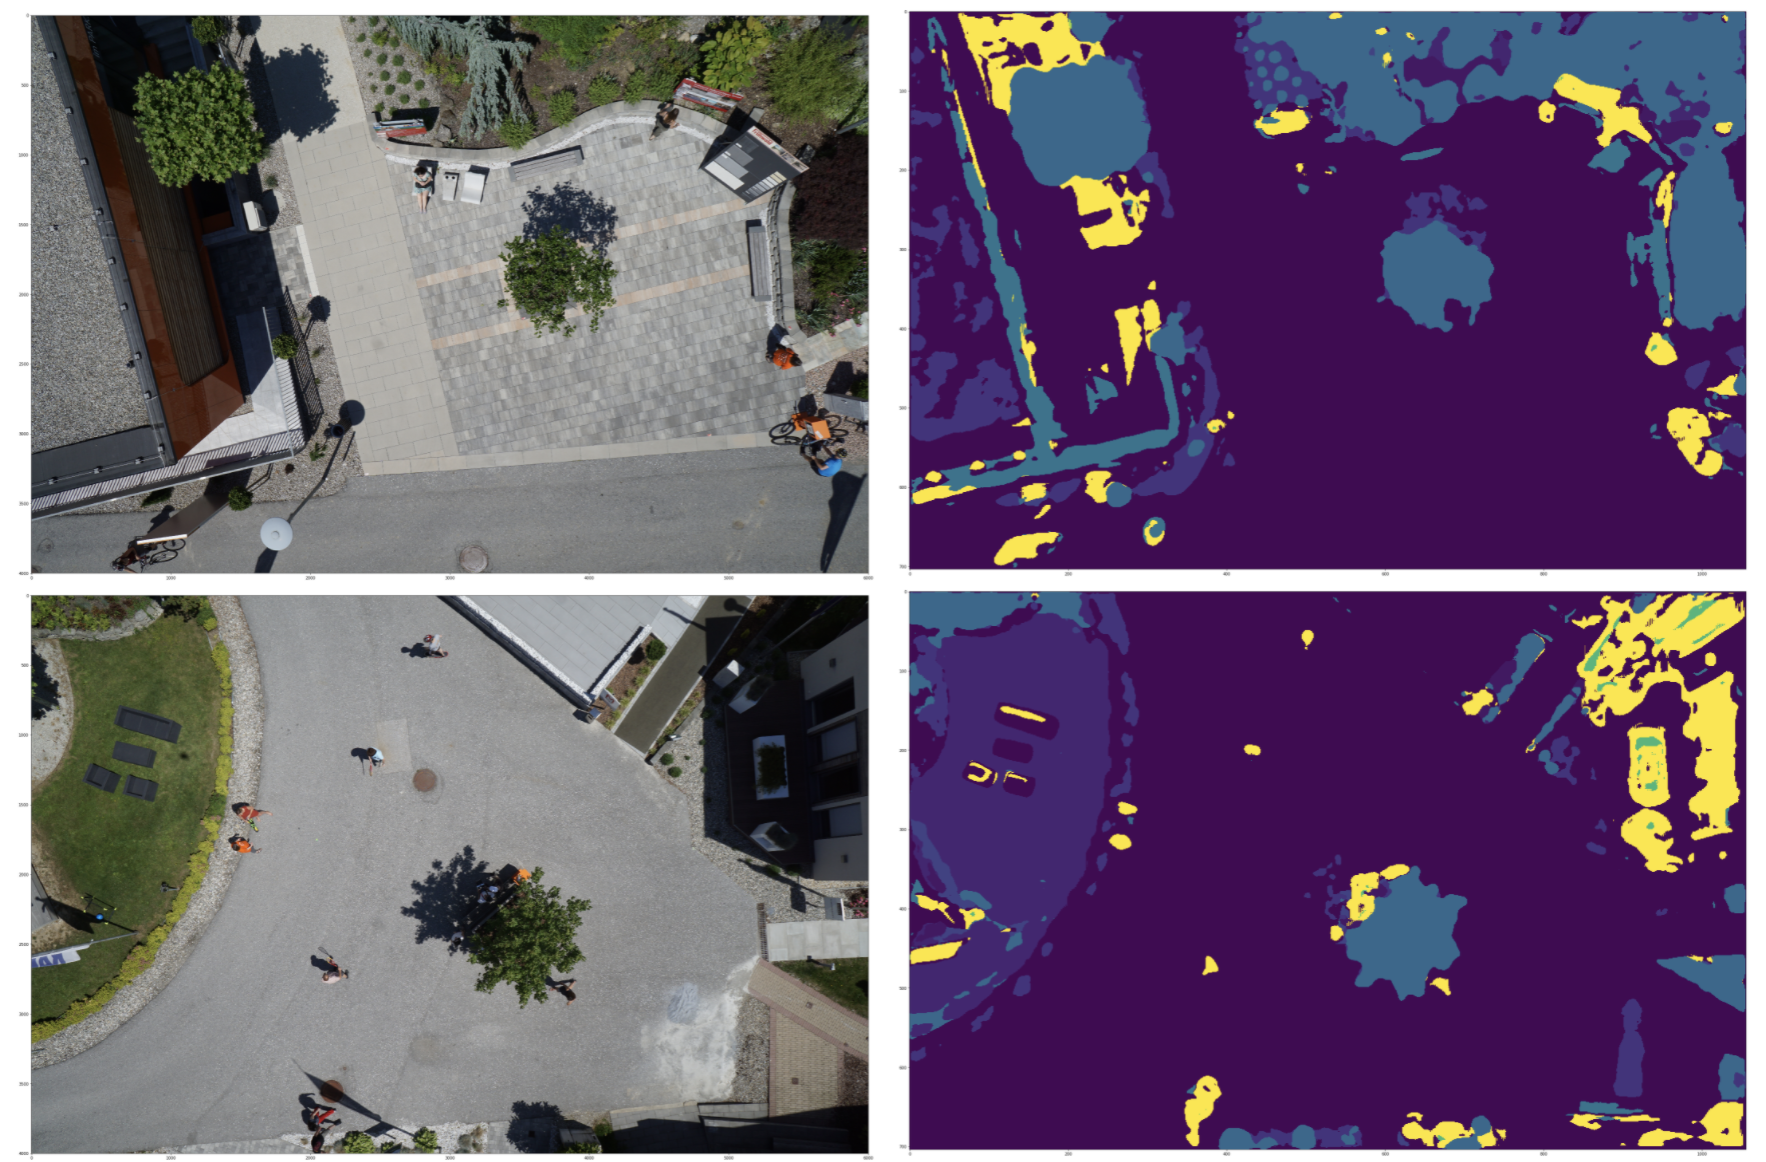
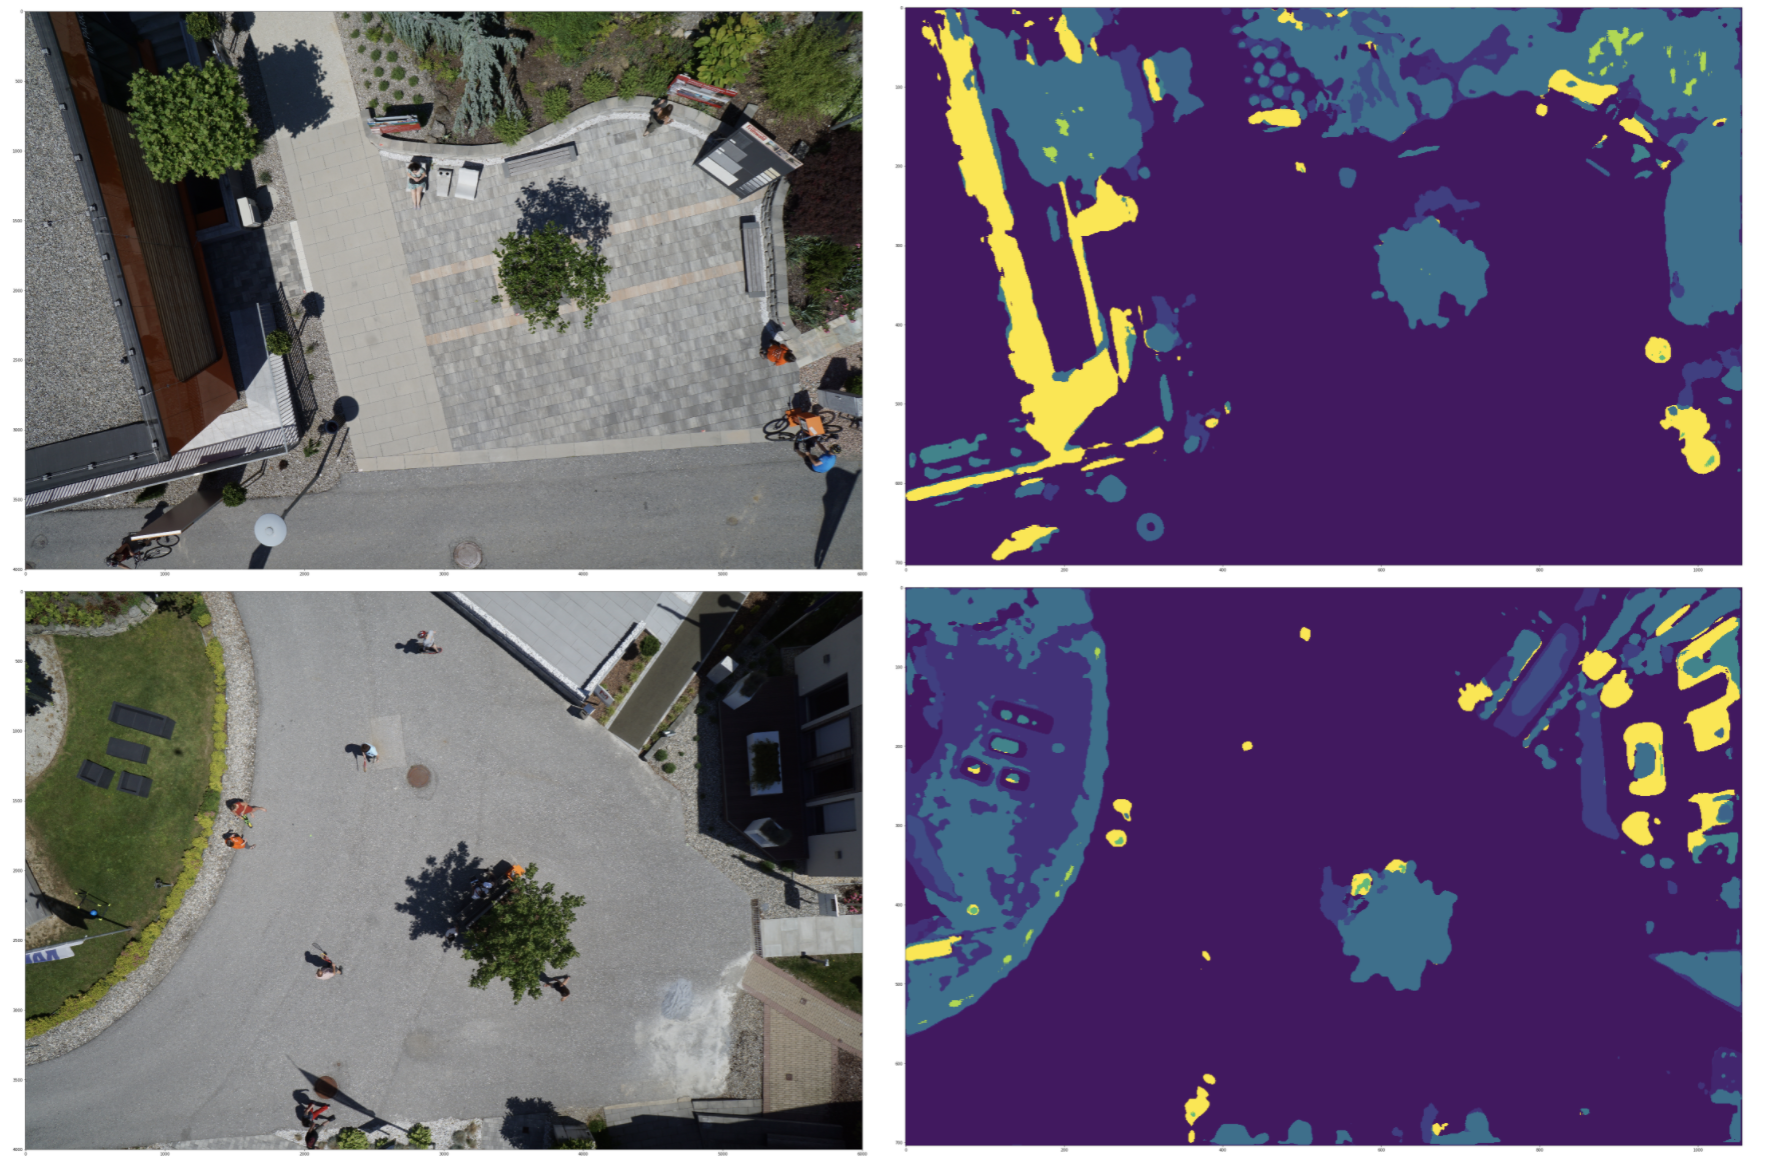
change img

diff --git a/dice_coefficient.py b/dice_coefficient.py
@@ -20,18 +20,16 @@ def dice_coefficient(pred_mask, mask, smooth=1e-10, n_classes=23):
 
         coefficients = []
         for cls in range(0, n_classes):
-            true_class = pred_mask == cls
-            true_label = mask == cls
+            pred_y = pred_mask == cls
+            true_y = mask == cls
 
-            if true_label.long().sum().item() == 0:
+            if true_y.long().sum().item() == 0:
                 continue
             else:
-                intersect = (
-                    torch.logical_and(true_class, true_label).sum().float().item()
+                intersect = torch.logical_and(pred_y, true_y).sum().float().item()
+                coefficient = (2 * intersect + smooth) / (
+                    pred_y.sum().float().item() + true_y.sum().float().item() + smooth
                 )
-                union = torch.logical_or(true_class, true_label).sum().float().item()
-
-                coefficient = (intersect + smooth) / (union + smooth)
                 coefficients.append(coefficient)
 
         return np.mean(coefficients)

diff --git a/eval.py b/eval.py
@@ -13,7 +13,7 @@ args = {"snapshot": "_best_loss.pth"}
 
 
 def eval(
-    model_path="./weights/mode_split_best_coeff_0.168723_epoch_10.pth",
+    model_path="./weights/mode_split_best_coeff_0.205319_epoch_11.pth",
     eval_res_path="./eval_res/",
     model_name="vgg16_bn",
 ):

diff --git a/experiment.md b/experiment.md
@@ -1,12 +1,12 @@
 # 解决方案
 
-## 数据分析
+## 1. 数据分析
 
-##### 图片size：
-min_height = 704
+##### 图片大小：
+min_height: 704
 min_width: 1056
 
-##### mask range：
+##### 类别范围：
 (0,22)
 
 ##### 可视化：
@@ -14,25 +14,23 @@ min_width: 1056
 <img src="./imgs/visualize.png" alt="visualize" style="zoom:50%;" />
 
 
-## model
+## 2. 模型
 
-由于小物体较多，选择保留浅层信息和深层信息的Unet。
+- 由于小物体较多，选择保留浅层信息和深层信息的Unet。
 
-由于数据量较小，在选择pretrain model时，可采用参数量少的pretrain模型，这里采用vgg16_bn。
+- 由于数据量较小，在选择model时，可采用参数量少的模型，这里采用vgg16_bn。
 
-## experiment
+## 3. 实验
 
-#### loss function
-ce loss
-#### optimizer
-采用同时考虑参数更新方向及速度的admaW优化器。
+#### 损失函数
+- ce loss
+#### 优化器
+- 采用weight decay的admaW优化器。
 #### 其他
 - 使用ImageNet的均值和标准差做归一化。
 - 图片aug。
 ### 实验中进行优化的点
-1. 初始实验中，由于评价指标为[Dice coefficient](https://en.wikipedia.org/wiki/Sørensen–Dice_coefficient)，loss function 采用与之对应的 dice loss，但收敛速度很慢，loss反复振荡，猜测主要由图像中小目标正样本较多，小目标的错误分类会会导致loss大幅度的变动，从而导致梯度变化剧烈。因此，后续实验中采用ce loss。
-
-2. 初始实验中，设置Dice coefficient 3轮不增加则arly stop，实验结果发现Dice coefficient 只能达到0.1左右。查看log发现实验过早 early stop。尽管Dice coefficient不增加，但loss仍然在下降，在后续实验中，考虑数据量不大，可以设置较大的early stop，直接存储最优Dice coefficient的model。
+- 初始实验中，由于评价指标为[Dice coefficient](https://en.wikipedia.org/wiki/Sørensen–Dice_coefficient)，loss function 采用与之对应的 dice loss，但收敛速度很慢，loss反复振荡，猜测主要由图像中小目标正样本较多，小目标的错误分类会会导致loss大幅度的变动，从而导致梯度变化剧烈。因此，后续实验中采用ce loss。
 
 #### 其他后续调优中可用的trick：
 

diff --git a/README.md b/README.md
@@ -6,7 +6,7 @@
 - Pytorch ( recommended version : 1.7.1 )
 ### Installation
 ```bash
-cd ./cluster_codebase
+cd ./segment
 make install
 ```
 ### Train
@@ -25,11 +25,11 @@ python3 -m segment.eval model_path eval_res_path
 
 | Backbone | Dice coefficient | Model                                                        |
 | -------- | ---------------- | ------------------------------------------------------------ |
-| Vgg16_BN | 16.8723%         | ./weights/mode_split_best_coeff_0.168723_epoch_10.pth |
+| Vgg16_BN | 20.53%         | ./weights/mode_split_best_coeff_0.205319_epoch_11.pth |
 
 ###
 #### Visualized results
 <img src="./imgs/res.png" alt="visualize" style="zoom:50%;" />
 
 #### Details
-见 [link](https://github.com/tanxuehan/segment/blob/master/experiments.md)
+[link](https://github.com/tanxuehan/segment/blob/master/experiment.md)
